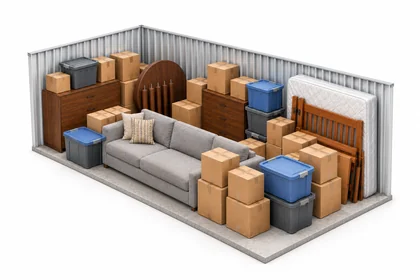
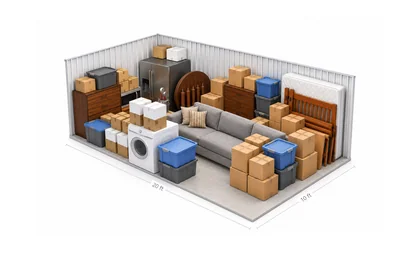
Size guide: finished library renders (dimensioned), 10x25 gets its own picture

diff --git a/size-guide.html b/size-guide.html
@@ -195,7 +195,7 @@
         </div>
 
         <div class="size-card">
-          <img src="img/unit-10x20.webp" alt="10x25 extra-deep storage unit" class="size-card-img" loading="lazy" width="150" height="102">
+          <img src="img/unit-10x25.webp" alt="10x25 extra-deep storage unit" class="size-card-img" loading="lazy" width="210" height="140">
           <div class="size-card-header">
             <div class="size-dimensions">10' x 25'</div>
             <div class="size-sqft">250 sq ft</div>
